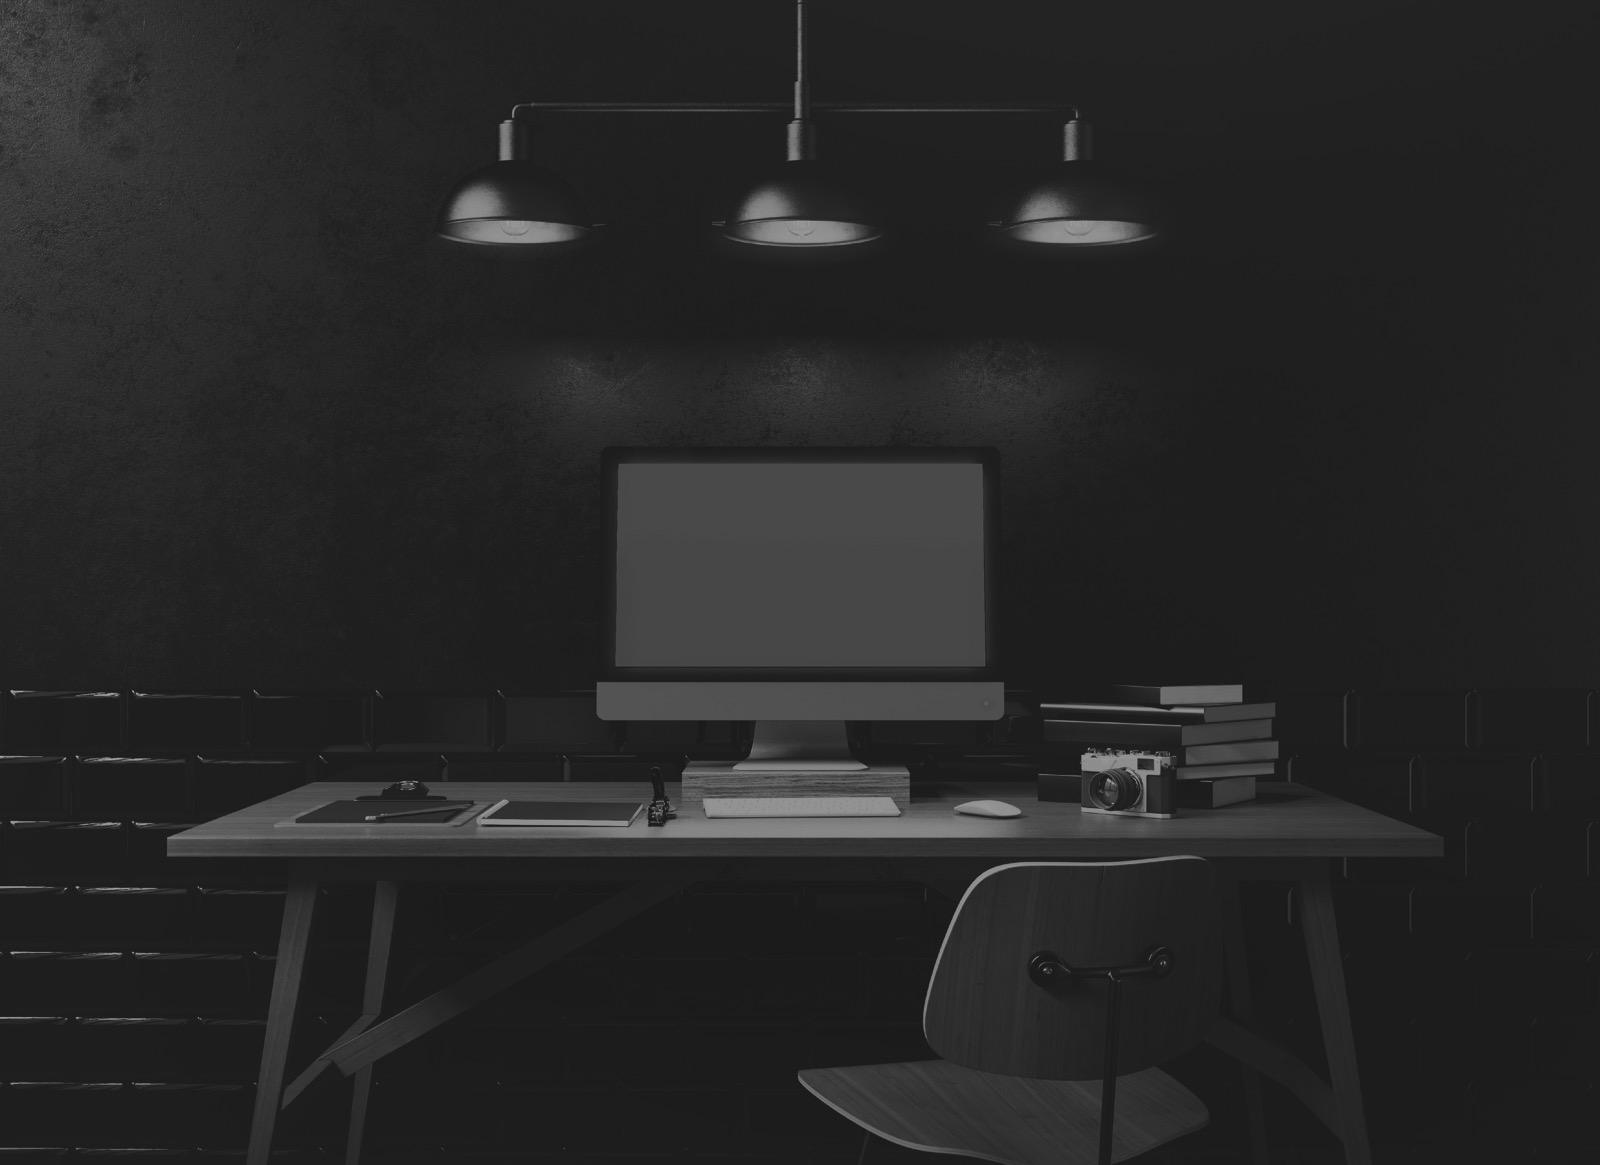
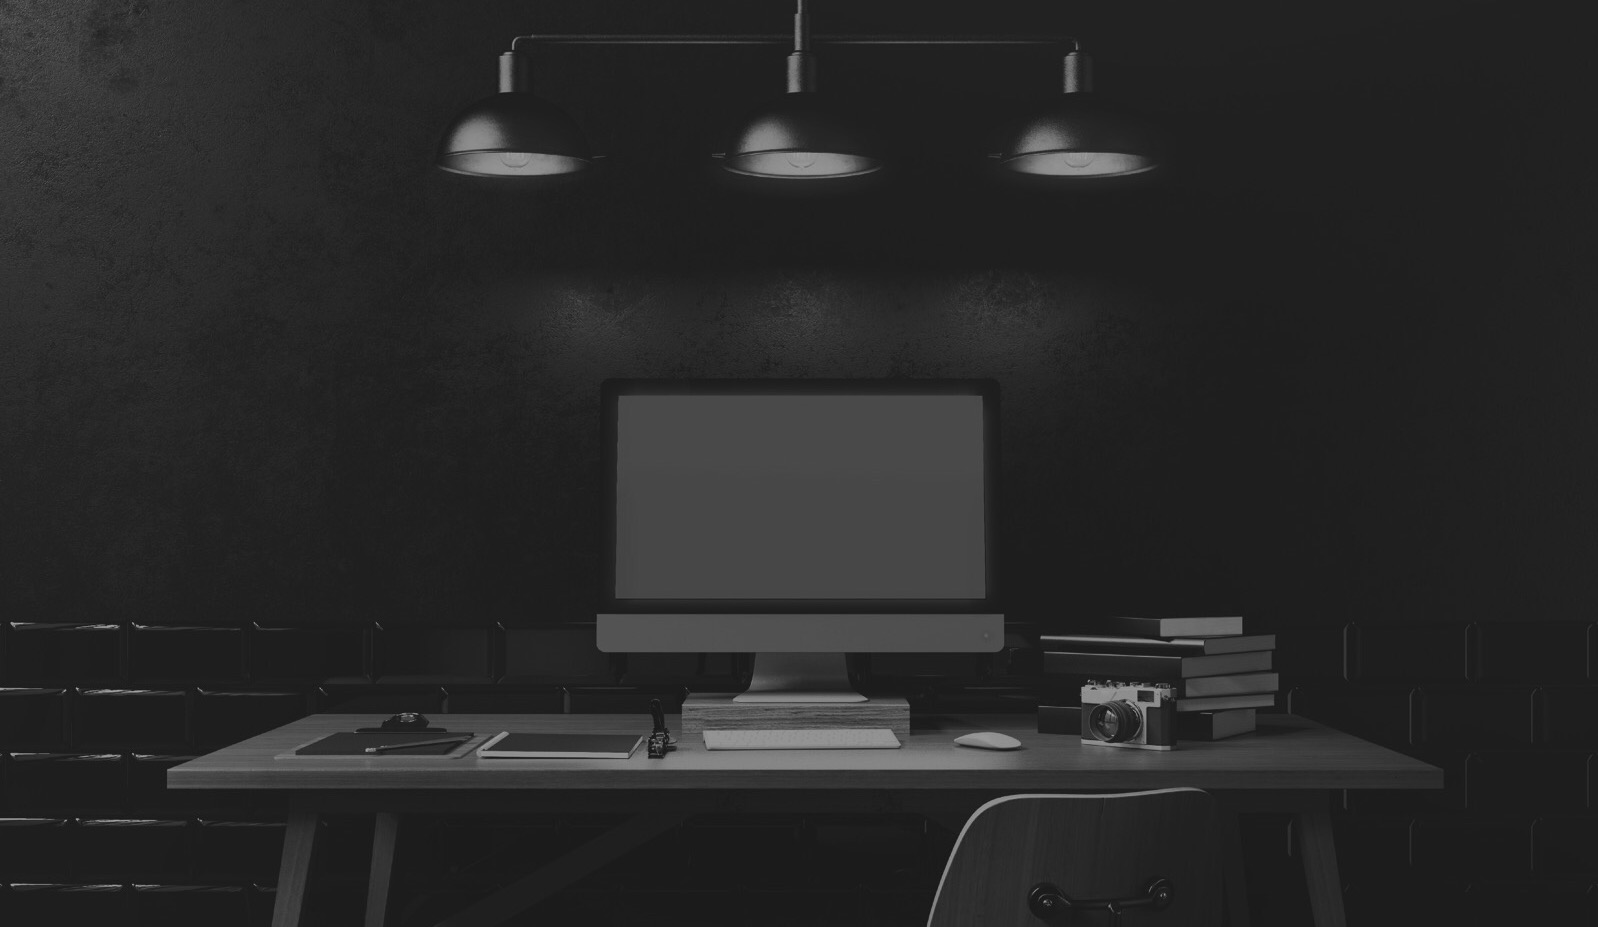
fixed positioning in home page

diff --git a/app/assets/stylesheets/application.css b/app/assets/stylesheets/application.css
@@ -29,7 +29,7 @@
   font-family: porter;
   font-size: 60px;
   text-align: center;
-  margin: 3.5em 0 .5em 0;
+  margin: 3em 0 .5em 0;
 }
 
 .content-top h3 {
@@ -42,33 +42,50 @@
   font-family: porter;
   font-size: 15px;
   text-align: center;
+  margin-top: 26.5em;
+  padding: 0;
 }
-
-body {
-    background-image: url("homepage.jpg");
+.body1 {
+    background-image: url("homepage.JPG");
     background-position: left top;
     background-repeat: no-repeat;
     background-size: 100%;
-    /*position: absolute;*/
-    clip: rect(0px,1000px,200px,0px);
 }
 
 .content-bottom h1 {
   font-family: porter;
-    margin-top: 20em;
+    margin-top: 4em;
+    font-size: 60px;
   /*margin-top: 25em;*/
 }
 .content-bottom p {
   font-family: futura;
   width: 45%;
   font-size: 15px;
-  
+  /*transform: rotate(90deg);*/
 }
 
 table {
   float: right;
-  margin-top: 20em;
+  margin: 2em -4em .8em 0;
+  padding: 0px;
 }
-.homeservice {
-
+.explore {
+  font-family: futura;
+  transform: rotate(90deg);
+  float: right;
+  /*color: white;*/
+  margin-left: -2em;
+  font-size: 34px;
+  border-width: 3px;
+  border-style: solid;
+  padding: 3.3px;
+  opacity: 0.5;
+}
+.titles {
+font-family: futura;
+font-size: 30px;
+opacity: 0.5;
+text-align: right;
+/*transform: rotate(90deg);*/
 }

diff --git a/db/seeds.rb b/db/seeds.rb
@@ -12,7 +12,7 @@ ecommerce.reviews.create(logo: "https://s3.amazonaws.com/BURC_Pages/downloads/a-
 ecommerce.reviews.create(logo: "http://www.pngmart.com/files/3/Starbucks-Logo-PNG-File.png", comment: "We used WynAgency to launch our Latin America products site they really understand the cultural nuances of the region to capture our core audience.")
 ecommerce.reviews.create(logo: "https://www.seeklogo.net/wp-content/uploads/2013/12/adidas-black-vector-logo-400x400.png", comment: "We have increased our customer base by 300% since launching an online mobile brand campaign with WnyAngency.")
 
-webdesign = Service.new(title: "UX/UI Design", url: "http://68.media.tumblr.com/46e720ae79e30859bb0ec818cba26d49/tumblr_ootj1nIlOi1uaq136o4_1280.jpg", description: "Experience Design,’ or UX/UI, is design based on a strategy that focuses on the emotional connection between a brand’s offering and the people that use it.", price_in_cents: 1)
+webdesign = Service.new(title: "Web Design", url: "http://68.media.tumblr.com/46e720ae79e30859bb0ec818cba26d49/tumblr_ootj1nIlOi1uaq136o4_1280.jpg", description: "Experience Design,’ or UX/UI, is design based on a strategy that focuses on the emotional connection between a brand’s offering and the people that use it.", price_in_cents: 1)
 webdesign.save!
 webdesign.reviews.create(logo: "https://s3.amazonaws.com/BURC_Pages/downloads/a-smile_bw.png", comment: "WynAgency is the best front end shop in the country!")
 webdesign.reviews.create(logo: "http://www.pngmart.com/files/3/Starbucks-Logo-PNG-File.png", comment: "WynAgency enabled us to speed our time to launch in changing languages and localizing our site for Latin America region.")
